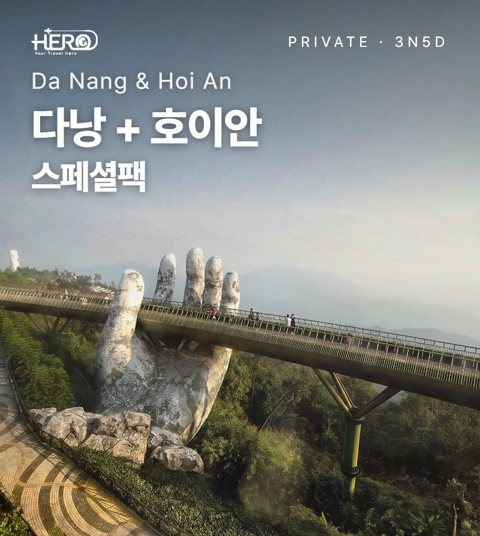
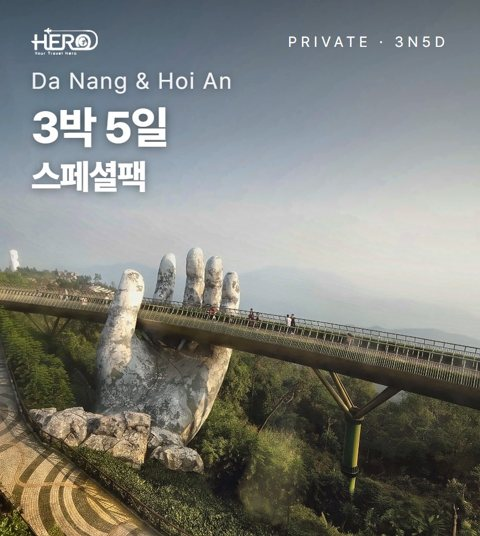
스페셜팩 표지 제목 '3박 5일 스페셜팩'으로 — 고객 요청

Changed region(s): [[0.0625, 0.1791, 0.5625, 0.2985]]

diff --git a/final/index.html b/final/index.html
@@ -208,7 +208,7 @@ section img:not([alt="HERO"]){width:100%;height:auto!important;max-height:1000px
 .route .ri-meal,.route .ri-plane{height:24px;left:-8px}.route .ri-golden,.route .ri-nightmarket{height:52px}.route .ri-lovebridge{height:48px;left:-10px}
 </style></head><body style="margin:0 auto"><section class="cover sec-cover"><img src="img/c_cover_tall_s.jpg" alt="" ><div class="fade"></div>
 <div class="cv-top"><img class="logo" src="img/logo_white.png" alt="HERO"><span class="pill">PRIVATE · 3N5D</span></div>
-<div class="cv-txt"><div class="cv-kicker">Da Nang &amp; Hoi An</div><h1>다낭 + 호이안<br><em>스페셜팩</em></h1>
+<div class="cv-txt"><div class="cv-kicker">Da Nang &amp; Hoi An</div><h1>3박 5일<br><em>스페셜팩</em></h1>
 <p class="cv-sub">바나힐 골든브릿지부터 호이안 야경, 온천 힐링까지<br>3박 5일, 다낭의 하이라이트만 우리 가족만의 속도로.</p>
 <div class="chips"><span>단독 차량 · 전용 가이드</span><span>노쇼핑 · 노옵션</span><span>마사지 3회 포함</span><span>공항 픽업 무료</span></div></div></section>
 <section class="sec promise"><div class="eyebrow">Why HERO</div><h2 class="h2">히어로투어가<br>약속하는 <em>다섯 가지</em></h2>
